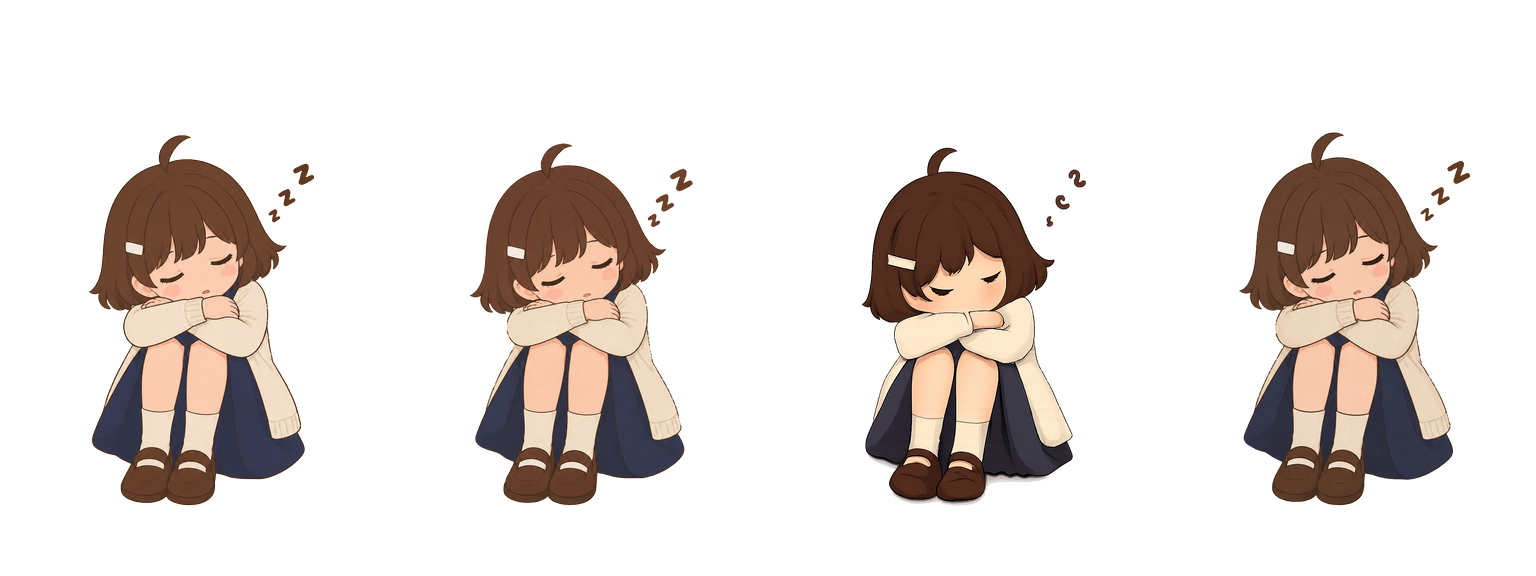
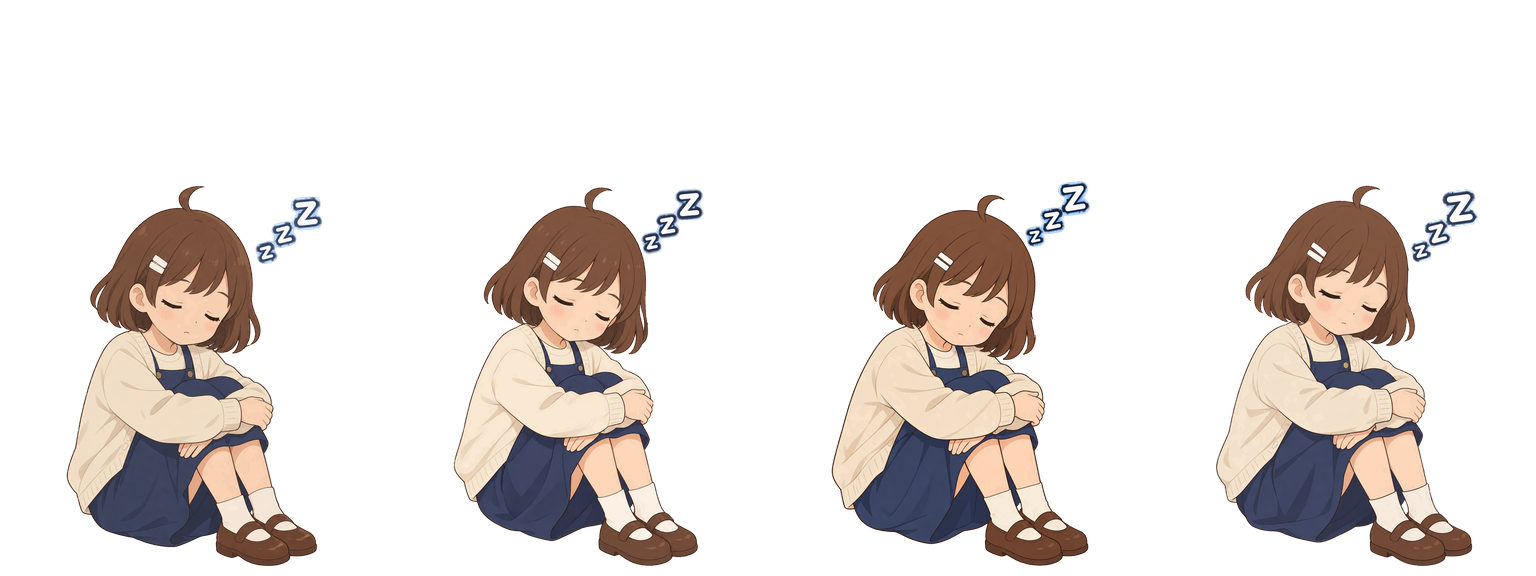
feat(pets): 重出小满 walk/sleep 素材，统一地面线到 566
用户重出了 walk-left / walk-right / sleep 三套逐帧素材（各 4 帧，1024×1536），
本轮接入并重新打包。两个观感问题一并修掉。

修复换动作时上下跳
- `ground` 放置原来取「该动作自己的内容底边中位数」，于是每个动作各算各的
  地面线：idle=566、walk-left=544、walk-right=557、sleep=506。切动作时小满会
  上下跳，最多 60px。改为**全局常量** `UNIFIED_GROUND = 566`（idle 的脚底线），
  四张 ground sheet 的每帧内容底边现在全部 = 566，站/走/坐共用一条线。
- 保留原有的两道夹取（`EDGE_MARGIN + 最高帧高` 与 `FRAME_H - EDGE_MARGIN`），
  否则走路最高的过渡帧会被顶出画面顶边。
- `anchor.y = 0.9809`（=565）**不变**，统一到 566 后它依然正确。

修复坐下时人物变大
- sleep 新素材是蹲姿，出图时人物被不可避免放大了。直接按 0.375 等比缩会做出
  「坐下就变大」的动画，所以必须先**只缩人物内容**再贴底：
  取内容外框 → `premultiplied_resize` 按帧比例缩 → 身体质心对齐画面中线 →
  内容底边钉到源图 `y = 1509`（落到 384 空间正好是 566）。
- 比例按「头部（含头发）整体宽度的最大值」对齐 idle 反推，实测
  **0.711 / 0.745 / 0.753 / 0.708**。重测头宽比 idle = **0.997–1.003**
  （旧素材是 1.03–1.13，坐下会明显变大）。
- 为什么用头宽：蹲姿的投影会让身高、面宽、面积三个候选口径都失真——
  实测面部面积几乎不变（idle 3615px vs 新 3533px）但宽高比从 81×90 变成
  91×83，即脸被压扁。头宽是这四个里唯一跨姿势自洽的。

打包链
- `MANIFEST` 新增**可选的第 6 个元素**（相对 raw 的子目录），因为重出的素材放在
  `source/edit/` 下，原来的元组只能从 raw 根目录找文件。`render()` 与主循环
  相应改成 `entry[:5]` 解包 + `os.path.join`。
- `collect_raw.py` 同步支持子目录，重新生成了 `source/INDEX.txt`；顺手修了一个
  真 bug：`--raw source` 时源与目标是同一路径，Windows 上 `shutil.copy2`
  会抛 `PermissionError`，现在跳过自拷贝。
- 顺带修好 `--raw source` 归档不完整的缺陷：原来 `source/` 里少了 walk-left /
  walk-right 的 8 张，直接跑会报缺图。现在 42 帧全部就位，且**从归档重建的
  12 张 PNG 与交付物逐字节一致**。

⚠ `build_xiaoman3.py` 生成的 `pet.json` 依然不能覆盖交付版
- 脚本版缺 `variants` / `frameMs` / `idle.trigger` / `intervalMs` / `plays`
  等运行期节奏字段。本次只复制 12 个 PNG，`pet.json` 保持交付版
[…]

diff --git a/CHANGELOG.md b/CHANGELOG.md
@@ -84,6 +84,30 @@
 
 ### 修复
 
+- **★ 小满换动作时上下跳 / 坐下时人物变大**（重出 walk-left / walk-right / sleep
+  素材并重新打包）。三个原因，逐个修：
+  1. **每个动作各算各的地面线**：`ground` 放置原来取「该动作自己的内容底边中位数」，
+     于是 idle=566、walk-left=544、walk-right=557、sleep=506 四条线各不相同，
+     切动作时宠物上下跳（最多 60px）。现在改为**全局常量**
+     `build_xiaoman3.py:UNIFIED_GROUND = 566`（idle 的脚底线），
+     四张 sheet 的每帧底边全部 = 566。
+  2. **sleep 新素材人物画得比 idle 大**：新图是蹲姿，出图时被放大了，
+     直接按 0.375 等比缩会做出「坐下就变大」的动画。新增
+     `scale_sleep.py`：**只缩人物内容**（取内容外框 → `premultiplied_resize`
+     按帧比例缩 → 身体质心对齐画面中线 → 内容底边钉到源图 `y=1509`）。
+     比例按「头部含头发的最大宽度」对齐 idle 反推，实测
+     **0.711 / 0.745 / 0.753 / 0.708**；重测头宽比 idle = **0.997–1.003**
+     （旧素材是 1.03–1.13）。注意这两个数**不是**按面积或身高算的，
+     而是头宽——蹲姿的投影会让身高、面宽都失真。
+  3. **`MANIFEST` 无法引用子目录**：重出的素材放在 `source/edit/` 下，
+     原来的元组只能从 raw 根目录找文件。现在支持**可选的第 6 个元素**
+     （相对 raw 的子目录），`render()` 与主循环相应改 `entry[:5]` 解包。
+- **`--raw source` 归档不完整**：`source/` 里少了 walk-left / walk-right 的 8 张，
+  直接跑会报缺图。随本轮 MANIFEST 改动一并修好（42 帧现已全部落在 `source/` 内），
+  `collect_raw.py` 同步支持子目录并重新生成了 `INDEX.txt`。
+- ⚠ **`build_xiaoman3.py` 生成的 `pet.json` 依然不能覆盖交付版**：脚本版缺
+  `variants` / `frameMs` / `idle.trigger` / `intervalMs` / `plays` 等运行期节奏字段。
+  落盘只复制 12 个 PNG，`pet.json` 保持交付版（本轮实测脚本版与交付版内容不同）。
 - **★ 形象列表里除第一张卡片外都没有缩略图**（用户报障「小满没有形象展示」）。
   两处原因叠加：
   1. 几何只算在 `root.querySelector('.pet-card-thumb')` 这**第一张**卡片上；
@@ -158,6 +182,13 @@
   缩略图渲染结果、预览器真的在推进帧）。
 - 纯逻辑层的边界加了两条新测试：不得碰 DOM，也**不得自己起定时器**
   （`random` 模式下 rAF 停着，纯逻辑层里的倒计时永远不会前进）。
+- **小满重出素材重打包的回归核对**：`tests/` 511 项 +
+  `tests/frontend/*.test.mjs` 109 项全绿；打包后复测四张 ground sheet
+  （idle / walk-left / walk-right / sleep）的每帧内容底边均为
+  `[566, 566, 566, 566]`；`--raw source` 从归档重建 12 张 PNG
+  与交付物**逐字节一致**。
+- 残留缺陷**用新素材重测**（未沿用旧数字）：sleep 4 帧内容高度差
+  **10px**（旧 16px），底边对齐轮廓 IoU **0.911**（旧 0.900）。
 
 **用户能自己新建形象**
 
